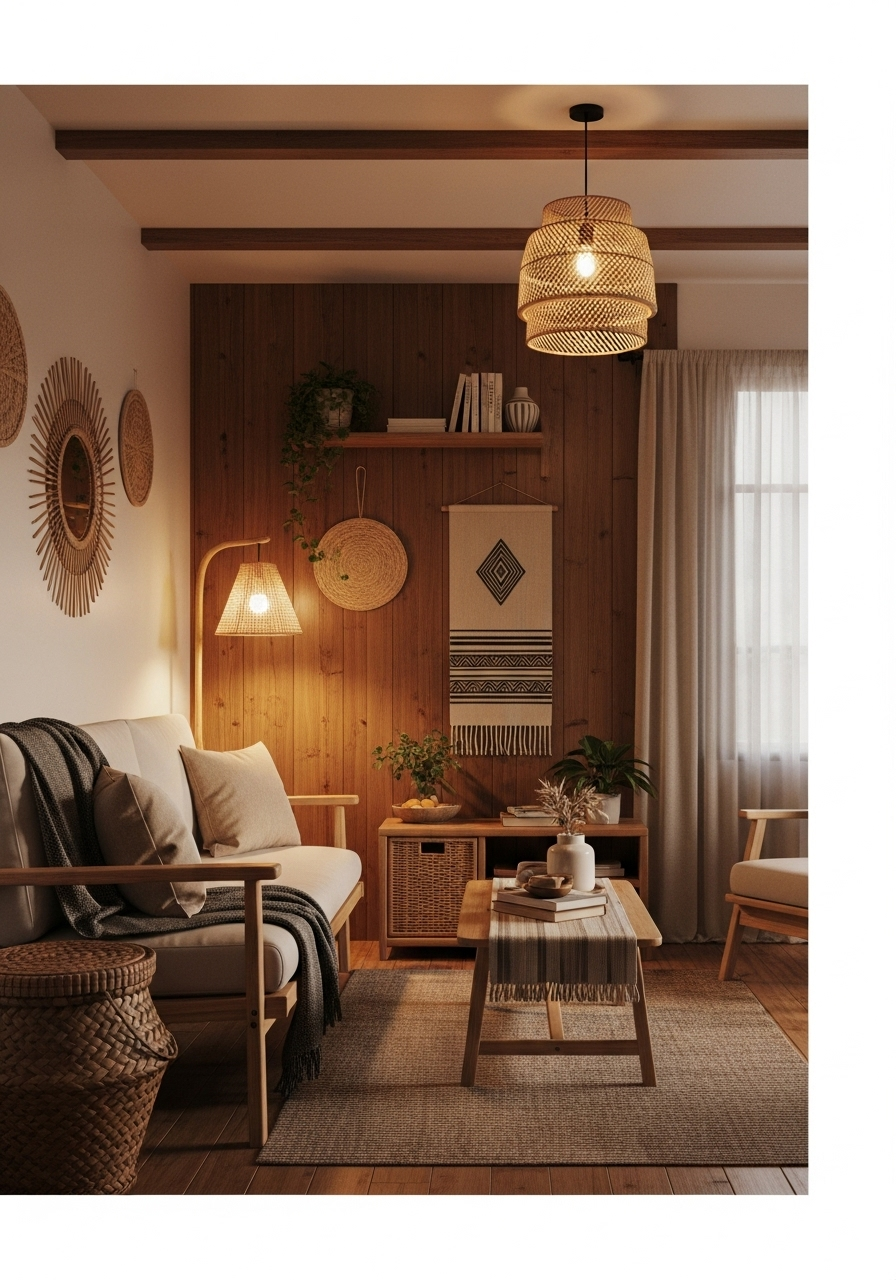
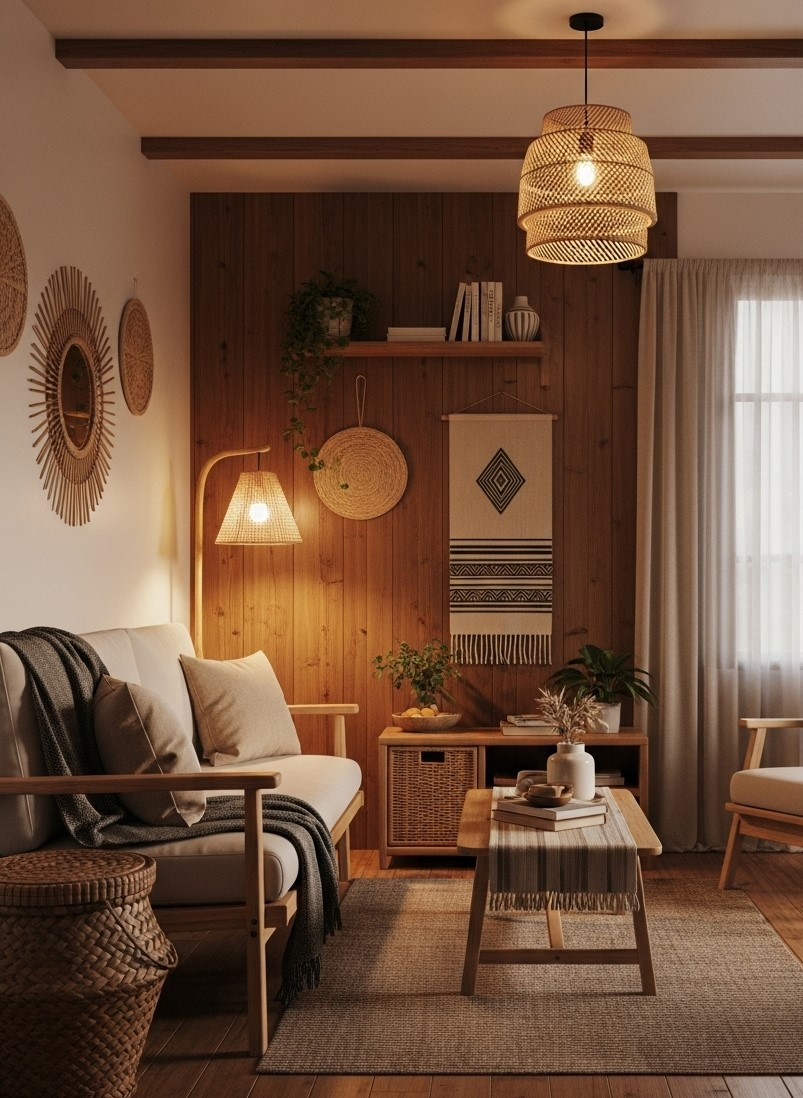
max-w-full

diff --git a/src/app/components/ui/WhoWeAre.tsx b/src/app/components/ui/WhoWeAre.tsx
@@ -13,13 +13,11 @@ export default function WhoWeAre({
 }: WhoWeAreProps) {
   return (
     <section className="py-16 bg-white">
-      <div className="max-w-7xl mx-auto px-6">
+      <div className="max-w-full mx-auto px-6">
         <div className="grid lg:grid-cols-2 gap-12 items-center">
           <div className="relative">
-            <div 
-              className="w-full h-[618px] rounded-2xl shadow-lg bg-center"
-              style={{ backgroundImage: `url(${image})` }}
-            >
+            <div className="rounded-2xl shadow-lg overflow-hidden">
+              <img src={image} alt={title} className="w-full h-[618px] object-cover block" />
             </div>
           </div>
           

diff --git a/src/app/components/ui/Discover.tsx b/src/app/components/ui/Discover.tsx
@@ -68,7 +68,7 @@ export default function Discover({
 }: DiscoverProps) {
   return (
     <section className="py-16 bg-white">
-      <div className="max-w-7xl mx-auto px-6">
+      <div className="max-w-full mx-auto px-6">
         <div className="text-center mb-12">
           <h2 className="text-4xl md:text-5xl font-bold mb-4 font-lexend text-[#1078CF]">
             {title}

diff --git a/src/app/components/ui/MissionVision.tsx b/src/app/components/ui/MissionVision.tsx
@@ -15,7 +15,7 @@ export default function MissionVision({
 }: MissionVisionProps) {
   return (
     <section className="py-16 bg-white">
-      <div className="max-w-7xl mx-auto px-6 space-y-16">
+      <div className="max-w-full mx-auto px-6 space-y-16">
         
         {/* Mission Section */}
         <div className="grid lg:grid-cols-2 gap-12 items-center">
